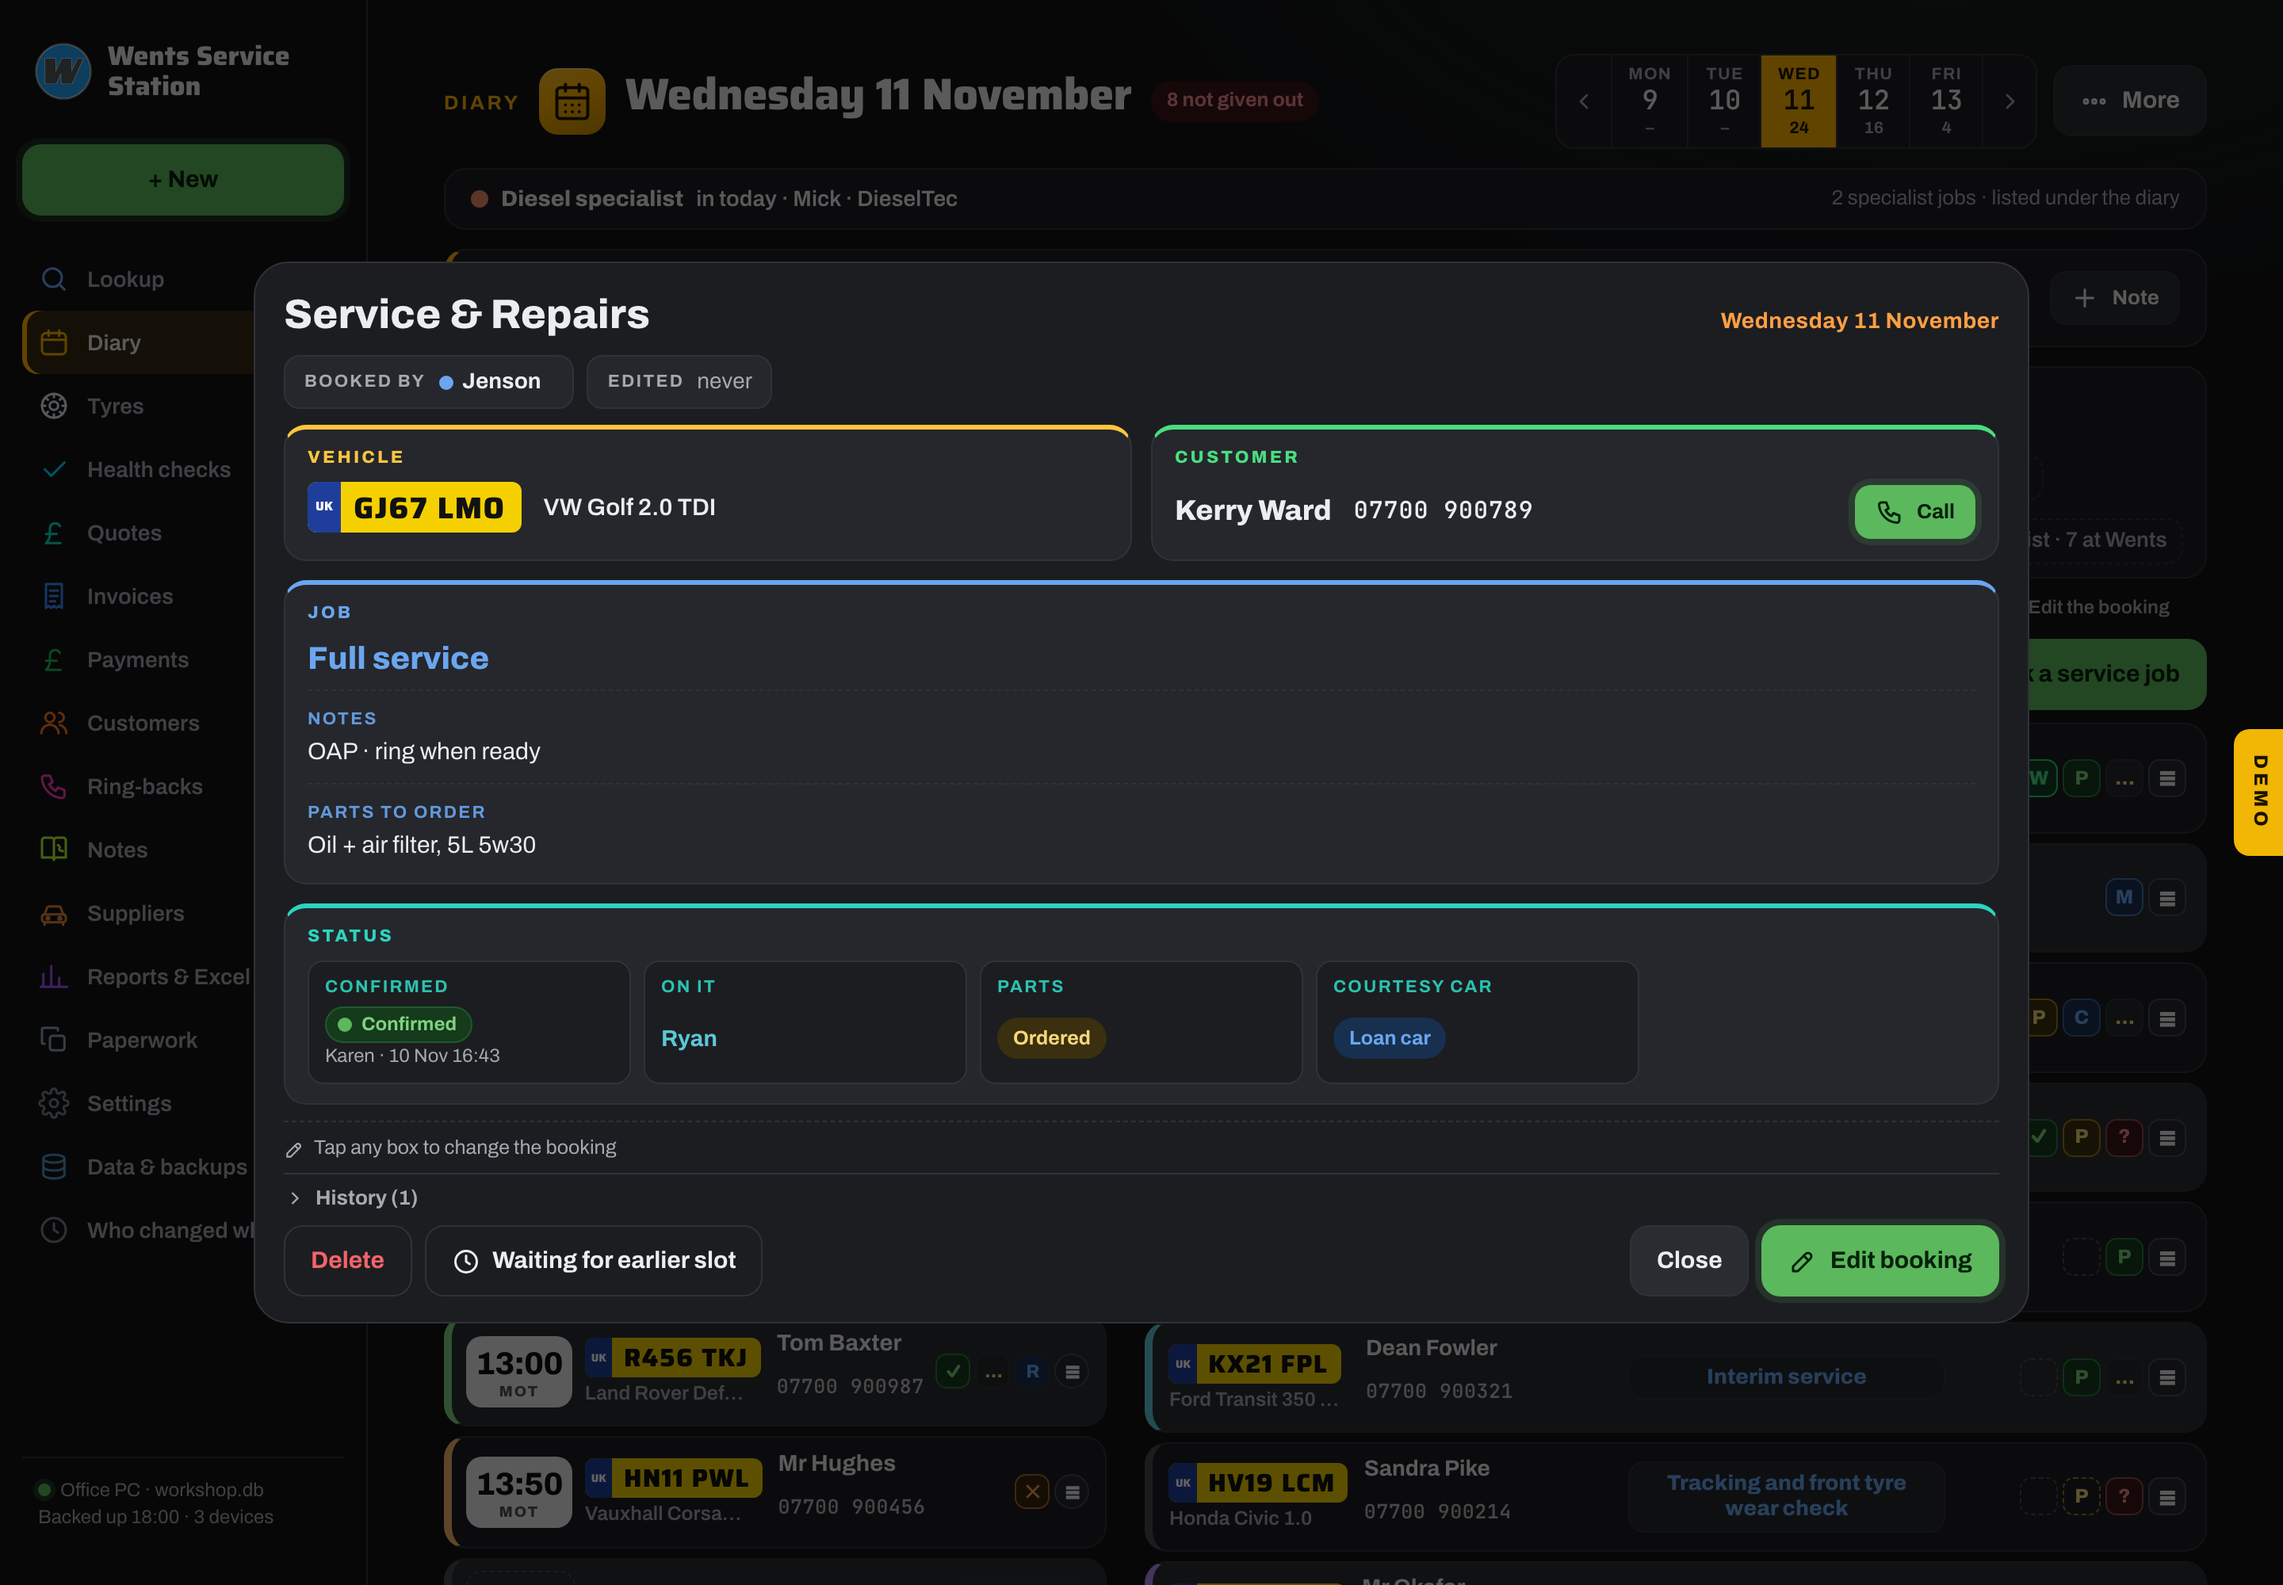
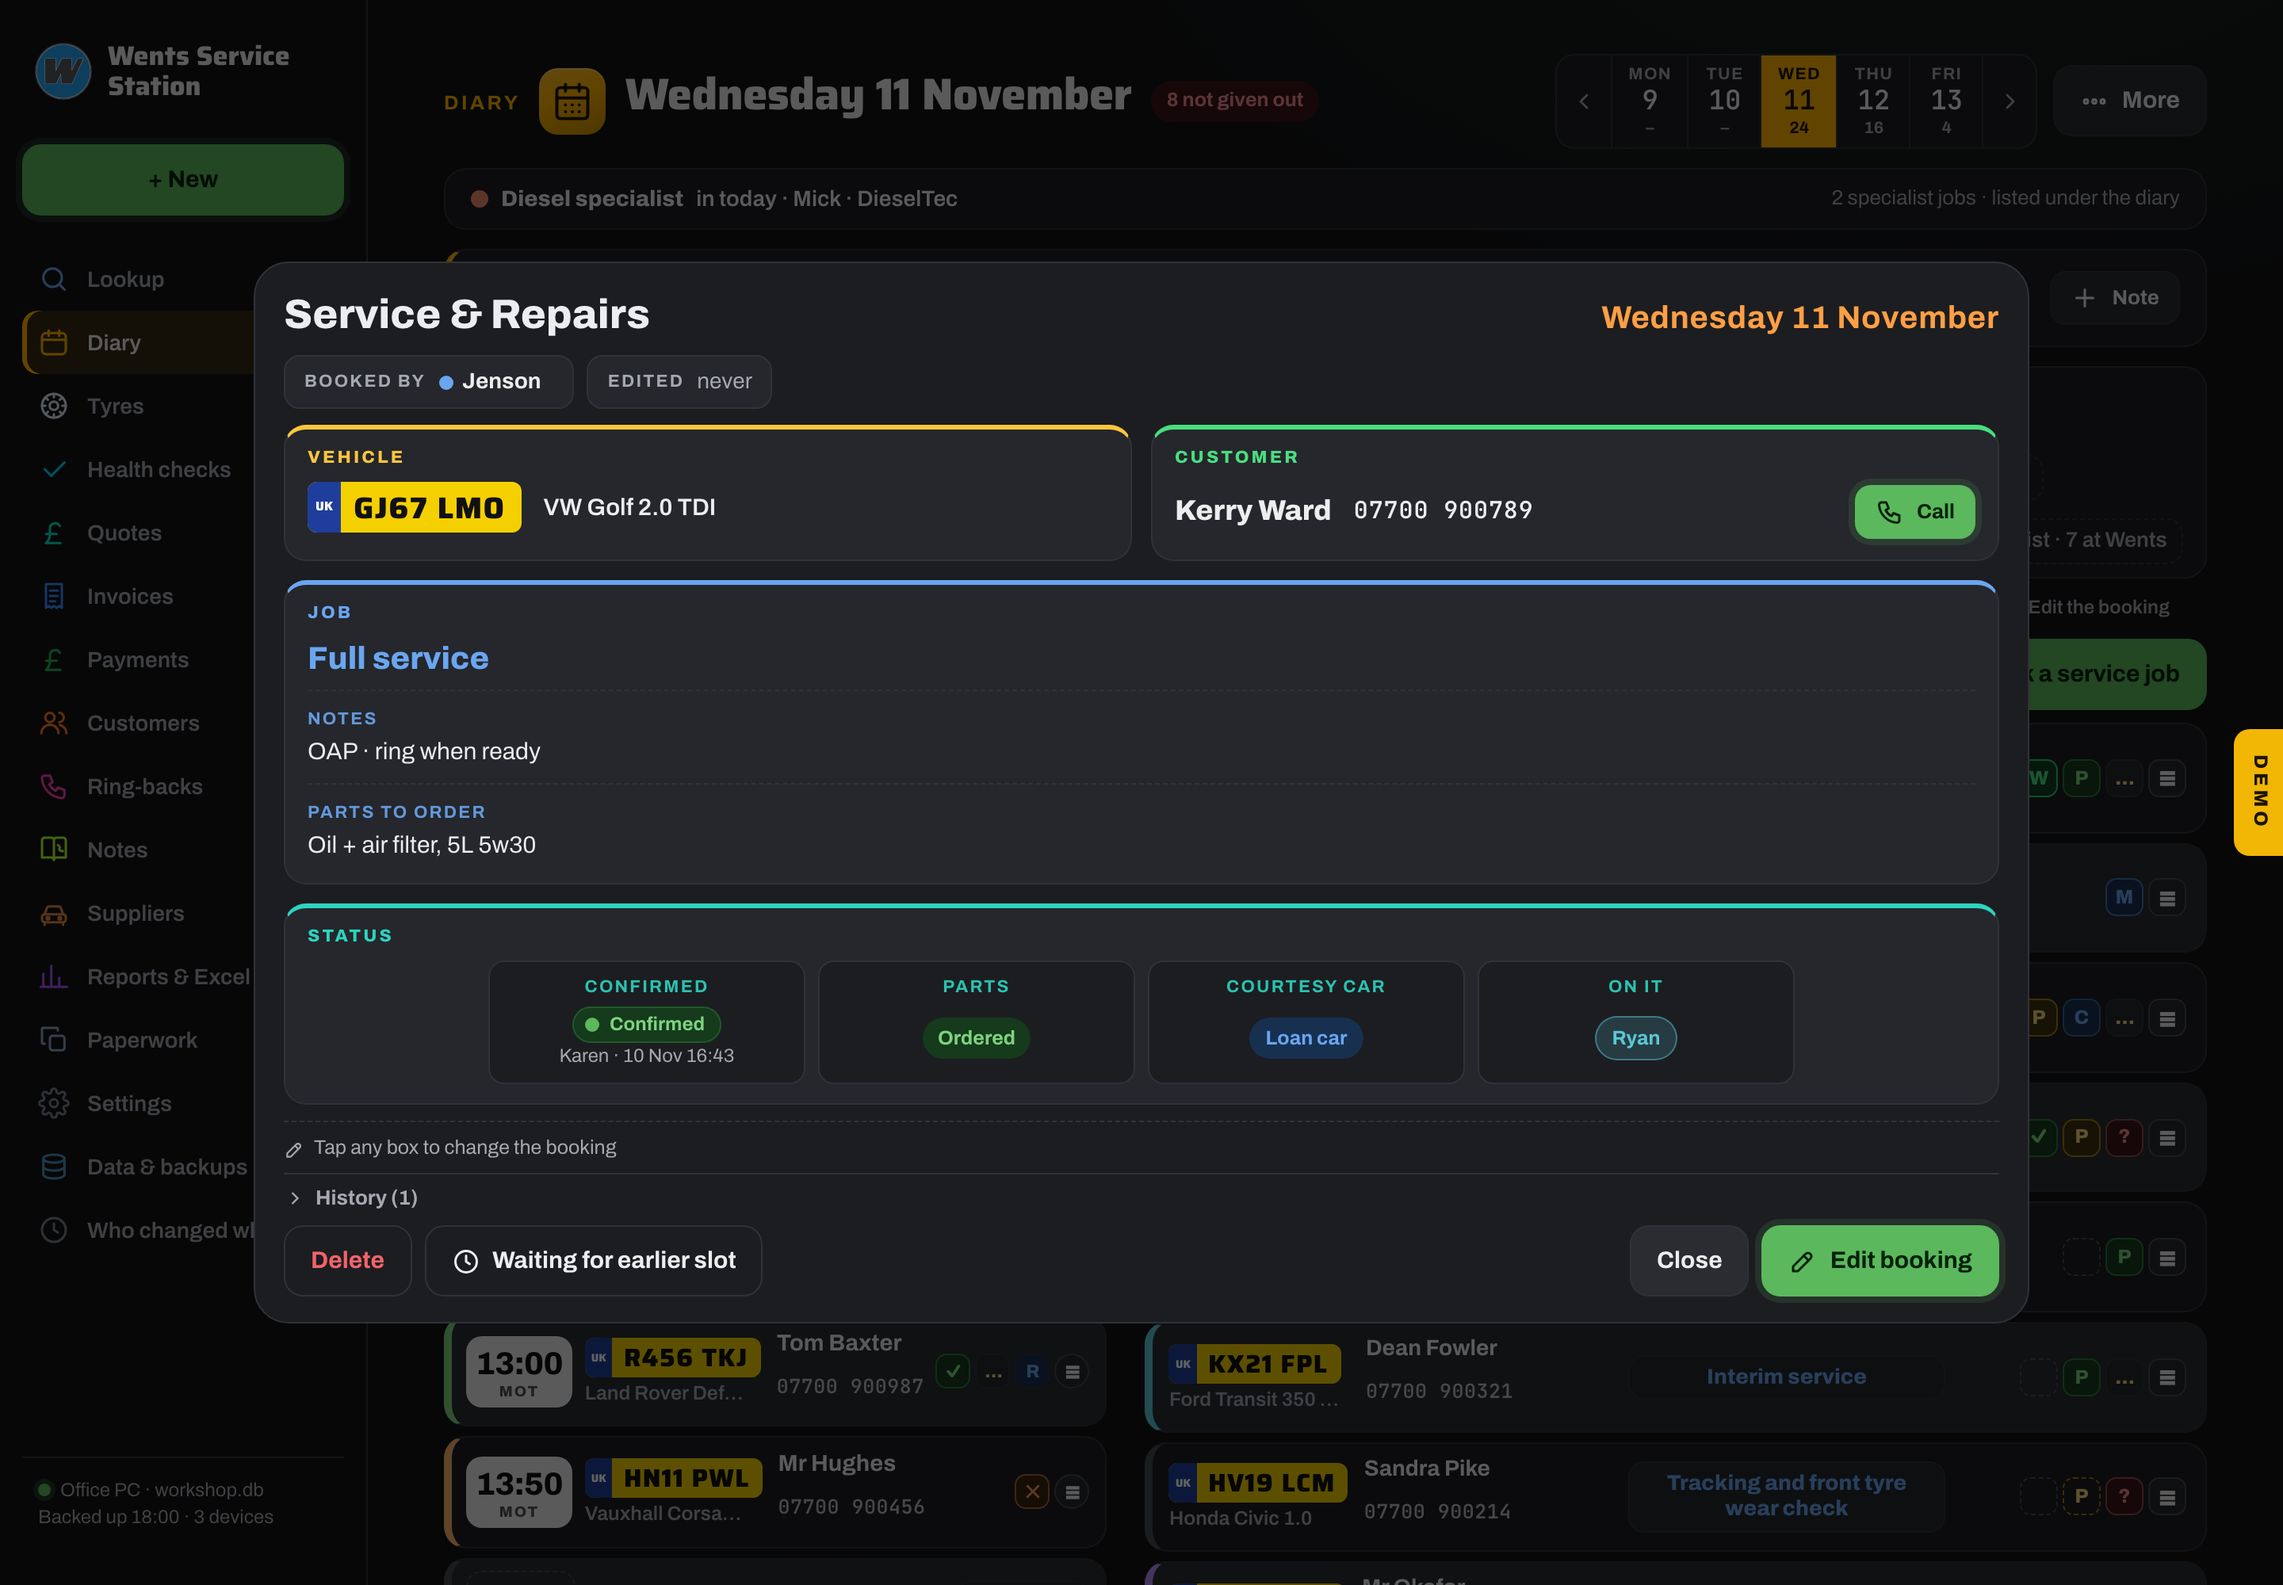
Mock round 29: booking view date bigger top right, Status tiles centred in the order Confirmed, Parts, Courtesy car, On it, parts pill green once ordered, loan car blue, person on it shown as a coloured bubble; workshop-v25

diff --git a/mock/index.html b/mock/index.html
@@ -396,7 +396,7 @@ a.stat{display:block} a.stat:hover{border-color:var(--line-strong)}
 .bkview .vtop{display:flex;align-items:center;gap:8px 16px;flex-wrap:wrap} .bkview .vtop .veh{display:grid;gap:3px;justify-items:start} .bkview .vtop .veh small{font-size:14px;font-weight:600;color:var(--muted)} .bkview .vtop .cus{display:grid;gap:2px;flex:1 1 140px;min-width:0} .bkview .vtop .cus b{font-size:17px;font-weight:700} .bkview .vtop .cus .ph{font-family:var(--font-mono);font-weight:600;letter-spacing:.02em;font-size:14px;opacity:.8} .bkview .vtop .btn.sm{align-self:center}
 .bkview .vjob{font-size:19px;font-weight:800;color:var(--accent);line-height:1.2}
 .bkview .vr{display:grid;grid-template-columns:96px 1fr;gap:10px;font-size:14.5px;align-items:start} .bkview .vr>span{font-size:11px;letter-spacing:.1em;text-transform:uppercase;color:var(--muted);font-weight:700;padding-top:3px} .bkview .vr b{font-weight:700} .bkview .vr .pills{display:flex;flex-wrap:wrap;gap:5px} .bkview .vr .cfl{display:inline-flex;align-items:center;gap:6px} .bkview .vr .small{white-space:normal;max-width:none}
-.bkview .vgrid{display:grid;grid-template-columns:1fr 1fr;gap:12px;margin:0 0 10px;cursor:pointer} .bkview .vb{border:1px solid var(--line);border-top:3px solid var(--vc);border-radius:14px;background:var(--sunk);padding:10px 14px 12px;display:grid;gap:8px;align-content:start;min-width:0} .bkview h2 .bkday{margin-left:auto;color:#FF9F43} .bkview .vbody.vrow{display:flex;align-items:center;gap:8px 14px;flex-wrap:wrap} .bkview .vb .vrow .vmk{margin-top:0} .bkview .vb .vrow .cbtn{margin:0 0 0 auto} .bkview .vgrid:hover .vb{border-color:var(--line-strong);border-top-color:var(--vc)} .bkview .vb.vjb,.bkview .vb.vst{grid-column:1/-1} .bkview .vbh{font-size:11px;letter-spacing:.14em;text-transform:uppercase;font-weight:800;color:var(--vc)} .bkview .vbody{display:grid;gap:4px;justify-items:start} .bkview .vb .vmk{font-size:15px;font-weight:600;color:var(--fg);margin-top:4px} .bkview .vb .vname{font-size:18px;font-weight:800} .bkview .vb .ph{font-family:var(--font-mono);font-size:15px;font-weight:600;letter-spacing:.03em} .bkview .vb .cbtn{margin-top:6px} .bkview .vb .vjob{font-size:20px} .bkview .vb .vr{grid-template-columns:1fr;gap:3px;padding-top:10px;border-top:1px dashed var(--line)} .bkview .vb .vr>span{color:var(--vc);opacity:.9;padding:0} .bkview .vb .vr>div{font-size:15px;line-height:1.45} .bkview .vb.vst .vrows{display:grid;grid-template-columns:repeat(auto-fill,minmax(170px,1fr));gap:8px} .bkview .vb.vst .vr{border:1px solid var(--line);border-radius:10px;background:var(--surface);padding:8px 10px;gap:4px} .bkview .vb.vst .vr .small{display:block;font-size:12px} .bkview .vb.vst .vr>div{font-size:14.5px}
+.bkview .vgrid{display:grid;grid-template-columns:1fr 1fr;gap:12px;margin:0 0 10px;cursor:pointer} .bkview .vb{border:1px solid var(--line);border-top:3px solid var(--vc);border-radius:14px;background:var(--sunk);padding:10px 14px 12px;display:grid;gap:8px;align-content:start;min-width:0} .bkview h2 .bkday{margin-left:auto;color:#FF9F43;font-size:20px} .bkview .vbody.vrow{display:flex;align-items:center;gap:8px 14px;flex-wrap:wrap} .bkview .vb .vrow .vmk{margin-top:0} .bkview .vb .vrow .cbtn{margin:0 0 0 auto} .bkview .vgrid:hover .vb{border-color:var(--line-strong);border-top-color:var(--vc)} .bkview .vb.vjb,.bkview .vb.vst{grid-column:1/-1} .bkview .vbh{font-size:11px;letter-spacing:.14em;text-transform:uppercase;font-weight:800;color:var(--vc)} .bkview .vbody{display:grid;gap:4px;justify-items:start} .bkview .vb .vmk{font-size:15px;font-weight:600;color:var(--fg);margin-top:4px} .bkview .vb .vname{font-size:18px;font-weight:800} .bkview .vb .ph{font-family:var(--font-mono);font-size:15px;font-weight:600;letter-spacing:.03em} .bkview .vb .cbtn{margin-top:6px} .bkview .vb .vjob{font-size:20px} .bkview .vb .vr{grid-template-columns:1fr;gap:3px;padding-top:10px;border-top:1px dashed var(--line)} .bkview .vb .vr>span{color:var(--vc);opacity:.9;padding:0} .bkview .vb .vr>div{font-size:15px;line-height:1.45} .bkview .vb.vst .vrows{display:flex;flex-wrap:wrap;justify-content:center;gap:8px} .bkview .vb.vst .vr{flex:0 1 200px;min-width:160px;border:1px solid var(--line);border-radius:10px;background:var(--surface);padding:8px 10px;gap:4px;text-align:center;justify-items:center} .bkview .vb.vst .vr .pill{margin:0} .bkview .vb.vst .vr .cfl{justify-content:center} .bkview .pill.who{background:color-mix(in srgb,var(--c) 18%,transparent);color:var(--c);border:1px solid color-mix(in srgb,var(--c) 45%,transparent)} .bkview .vb.vst .vr .small{display:block;font-size:12px} .bkview .vb.vst .vr>div{font-size:14.5px}
 .bkview .vhint{display:flex;align-items:center;gap:6px;color:var(--muted);font-size:12.5px;border-top:1px dashed var(--line);padding-top:8px;margin-top:2px} .bkview .vhint svg{width:13px;height:13px;stroke:currentColor;fill:none;stroke-width:2}
 .dvjob .xt{font-family:var(--font-mono);font-size:13px;color:var(--muted);font-weight:600} .dvjob .xt b{color:var(--fg);font-style:italic}
 .dvjob.add,.dvlist .dvjob.add:nth-child(even){grid-template-columns:1fr;justify-items:center;border:1px dashed var(--line-strong);padding:10px 16px;background:transparent} .dvjob.add span{display:inline-flex;align-items:center;gap:6px;font-weight:600;font-size:13.5px} .dvjob.add svg{width:14px;height:14px;stroke:currentColor;fill:none;stroke-width:2}
@@ -1707,9 +1707,9 @@ const bkView=(b,i,d0,sps)=>{const KV={mot:'MOT',svc:'Service &amp; Repairs',xtra
   <div class="vb vjb" style="--vc:var(--accent)"><div class="vbh">Job</div>${b.job?`<div class="vjob">${b.job}</div>`:'<div class="vjob muted">No job written down</div>'}${b.k==='svc'?'':row('When',when)}${row('Notes',b.nt?b.nt:'')}${row('Parts to order',b.partsNote?esc(b.partsNote):'')}</div>
   <div class="vb vst" style="--vc:#2DD4BF"><div class="vbh">Status</div><div class="vrows">
    ${row('Confirmed',`<span class="cfl">${cfDot(b)}</span>${b.cf&&b.cf.who?`<span class="muted small">${WHO[b.cf.who]?WHO[b.cf.who].n:b.cf.who} · ${b.cf.at}</span>`:''}`)}
-   ${row('On it',b.who&&WHO[b.who]?`<b style="color:${WHO[b.who].c}">${WHO[b.who].n}</b>`:sp?`<b style="color:${sp.c}">${esc(sp.who)}</b>`:'<span class="red">Not given out</span>')}
-   ${row('Parts',b.parts&&PARTS[b.parts]?`<span class="pill ${PARTS[b.parts][1]}">${PARTS[b.parts][0]}</span>`:b.partsNote?'<span class="pill y">To order</span>':'')}
+   ${row('Parts',b.parts&&PARTS[b.parts]?`<span class="pill g">${PARTS[b.parts][0]}</span>`:b.partsNote?'<span class="pill y">To order</span>':'')}
    ${row('Courtesy car',b.loan?`<span class="pill b">${LOAN[b.loan]}</span>`:'')}
+   ${row('On it',b.who&&WHO[b.who]?`<span class="pill who" style="--c:${WHO[b.who].c}">${WHO[b.who].n}</span>`:sp?`<span class="pill who" style="--c:${sp.c}">${esc(sp.who)}</span>`:'<span class="pill r">Not given out</span>')}
    ${row('Waiting list',w?`<span class="pill ${w.st==='wait'?'y':'g'} wl">${w.st==='wait'?'Waiting for a cancellation':w.st==='moved'?'Moved forward':'Rebooked'}</span>`:'')}
    ${(x=>x?row('Also',x):'')(bkPills(b)+(b.st==='done'?'<span class="pill g">Done</span>':''))}
   </div></div>

diff --git a/mock/sw.js b/mock/sw.js
@@ -1,6 +1,6 @@
 // Workshop (Garage System mock) offline support: keeps a copy of the app so it opens with no signal.
 // Bump VERSION whenever index.html, makes.js, logos or icons change, so installed copies pick up the update.
-const VERSION = 'workshop-v24';
+const VERSION = 'workshop-v25';
 const CORE = [
   './',
   'index.html',
